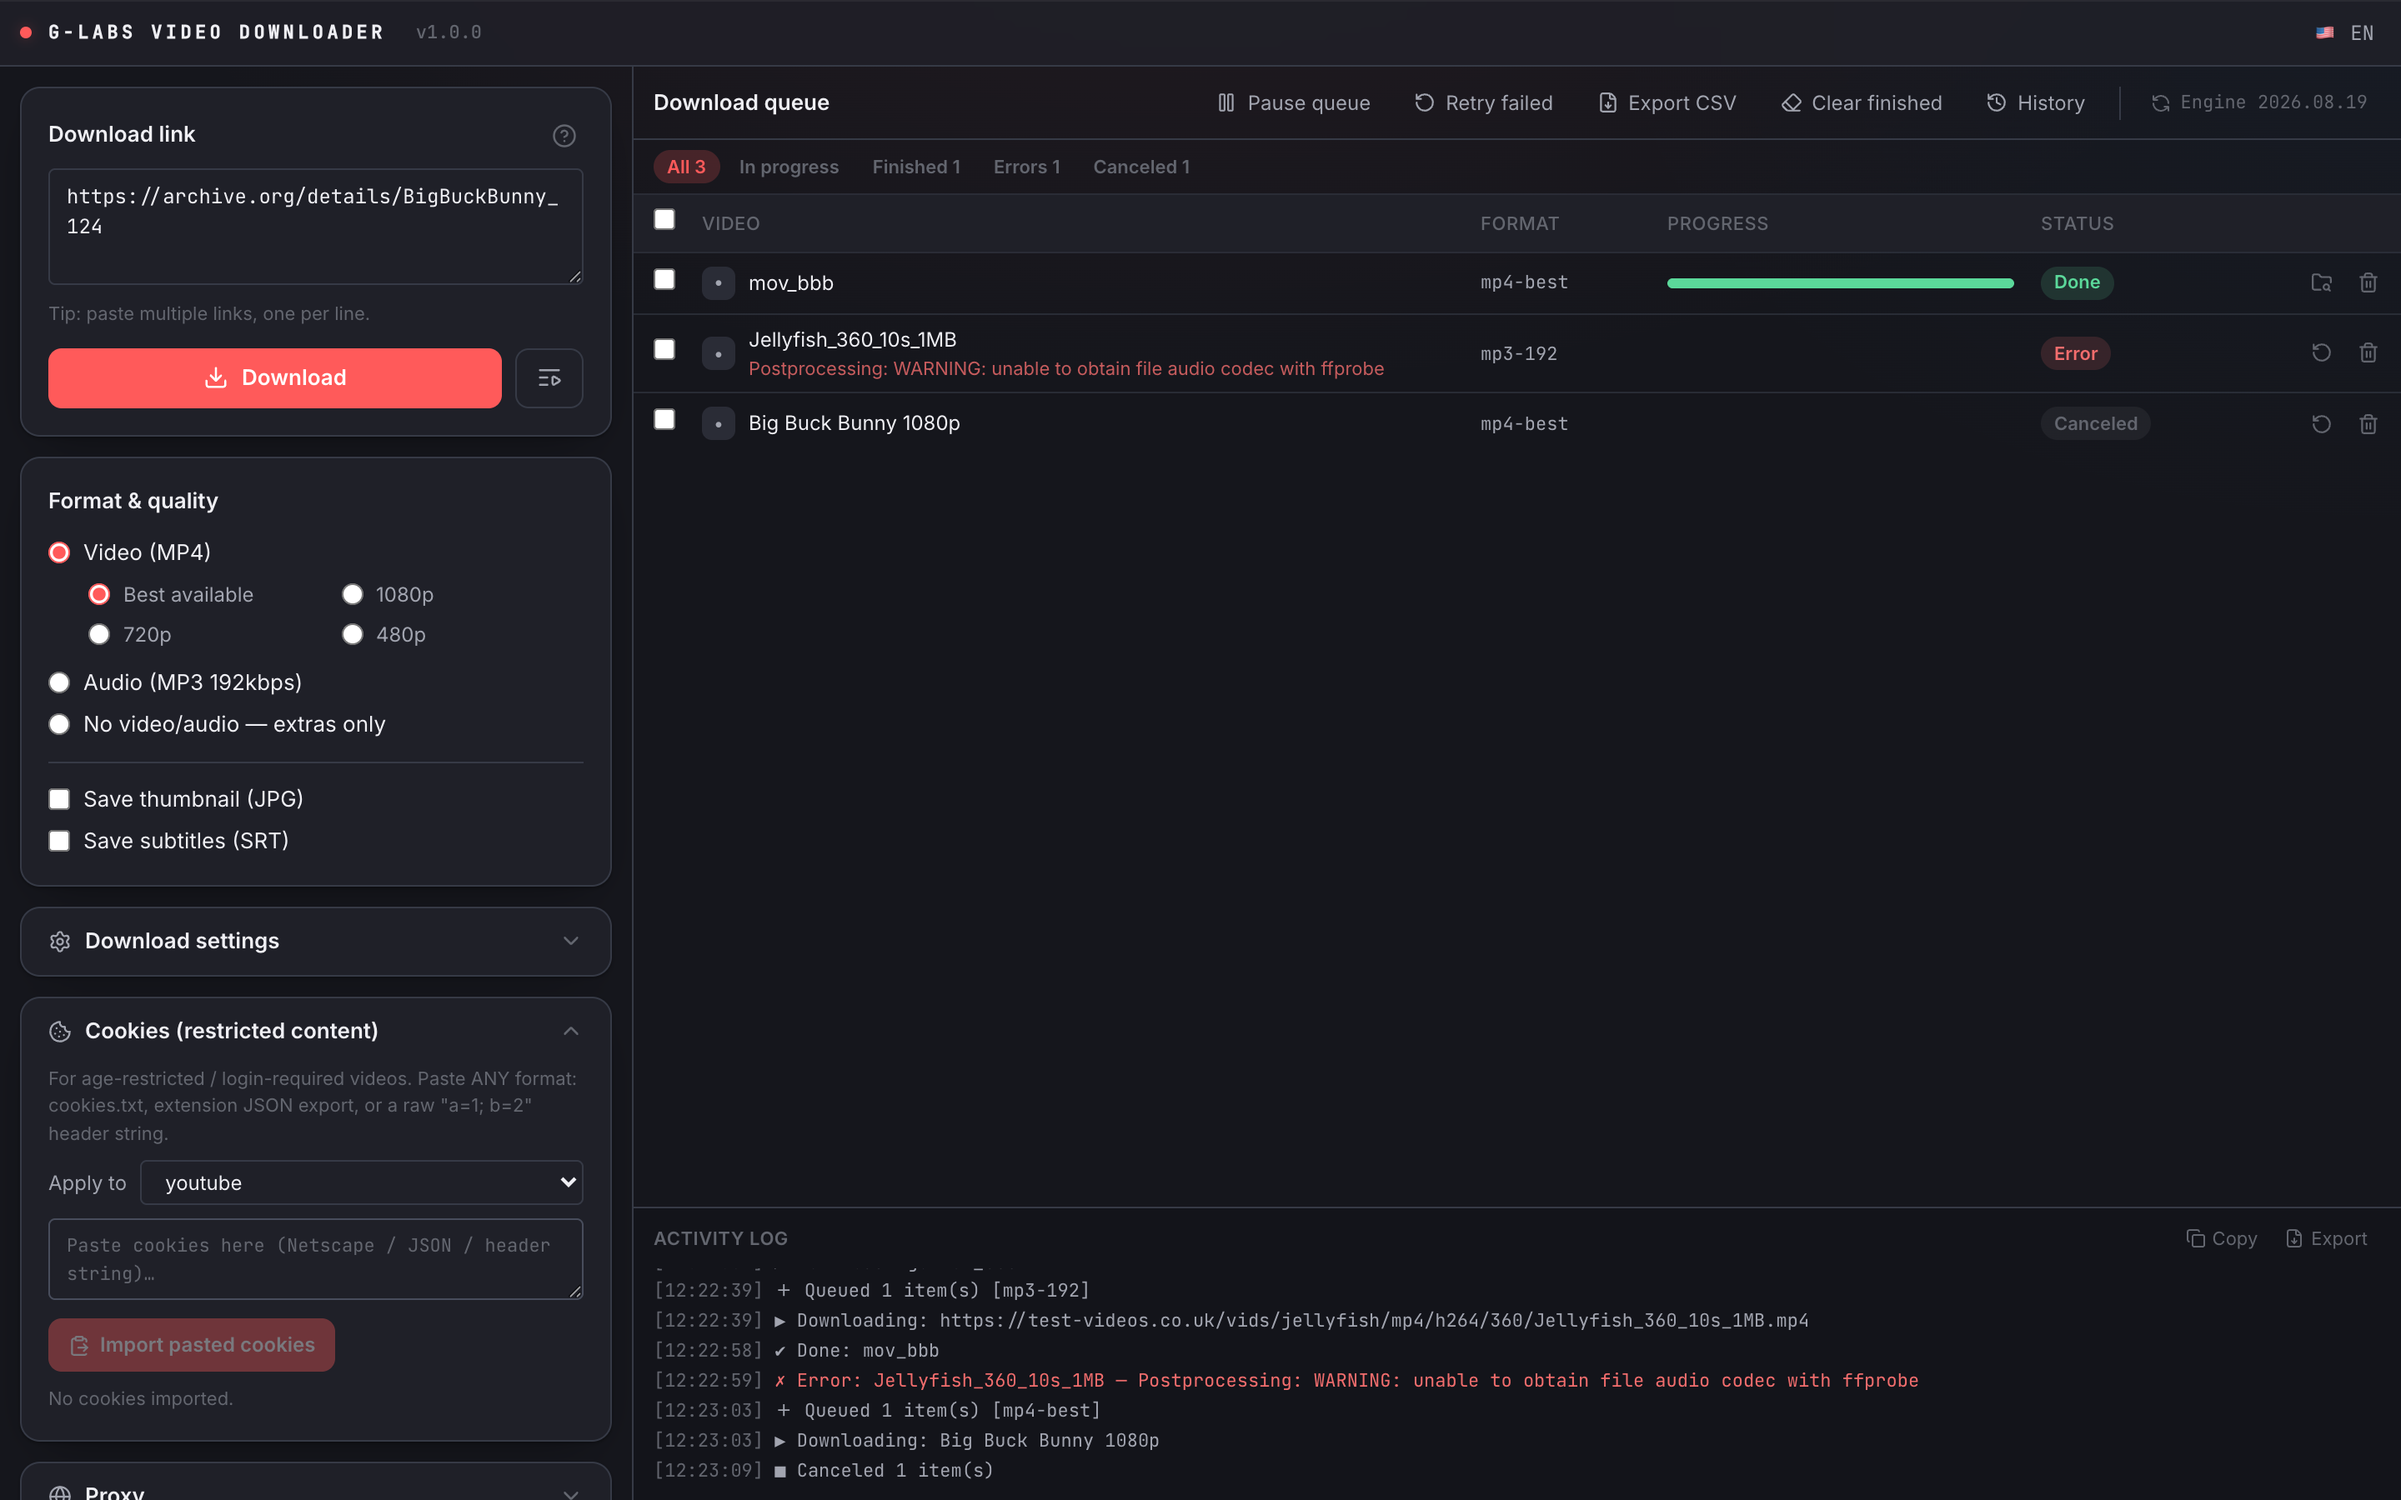
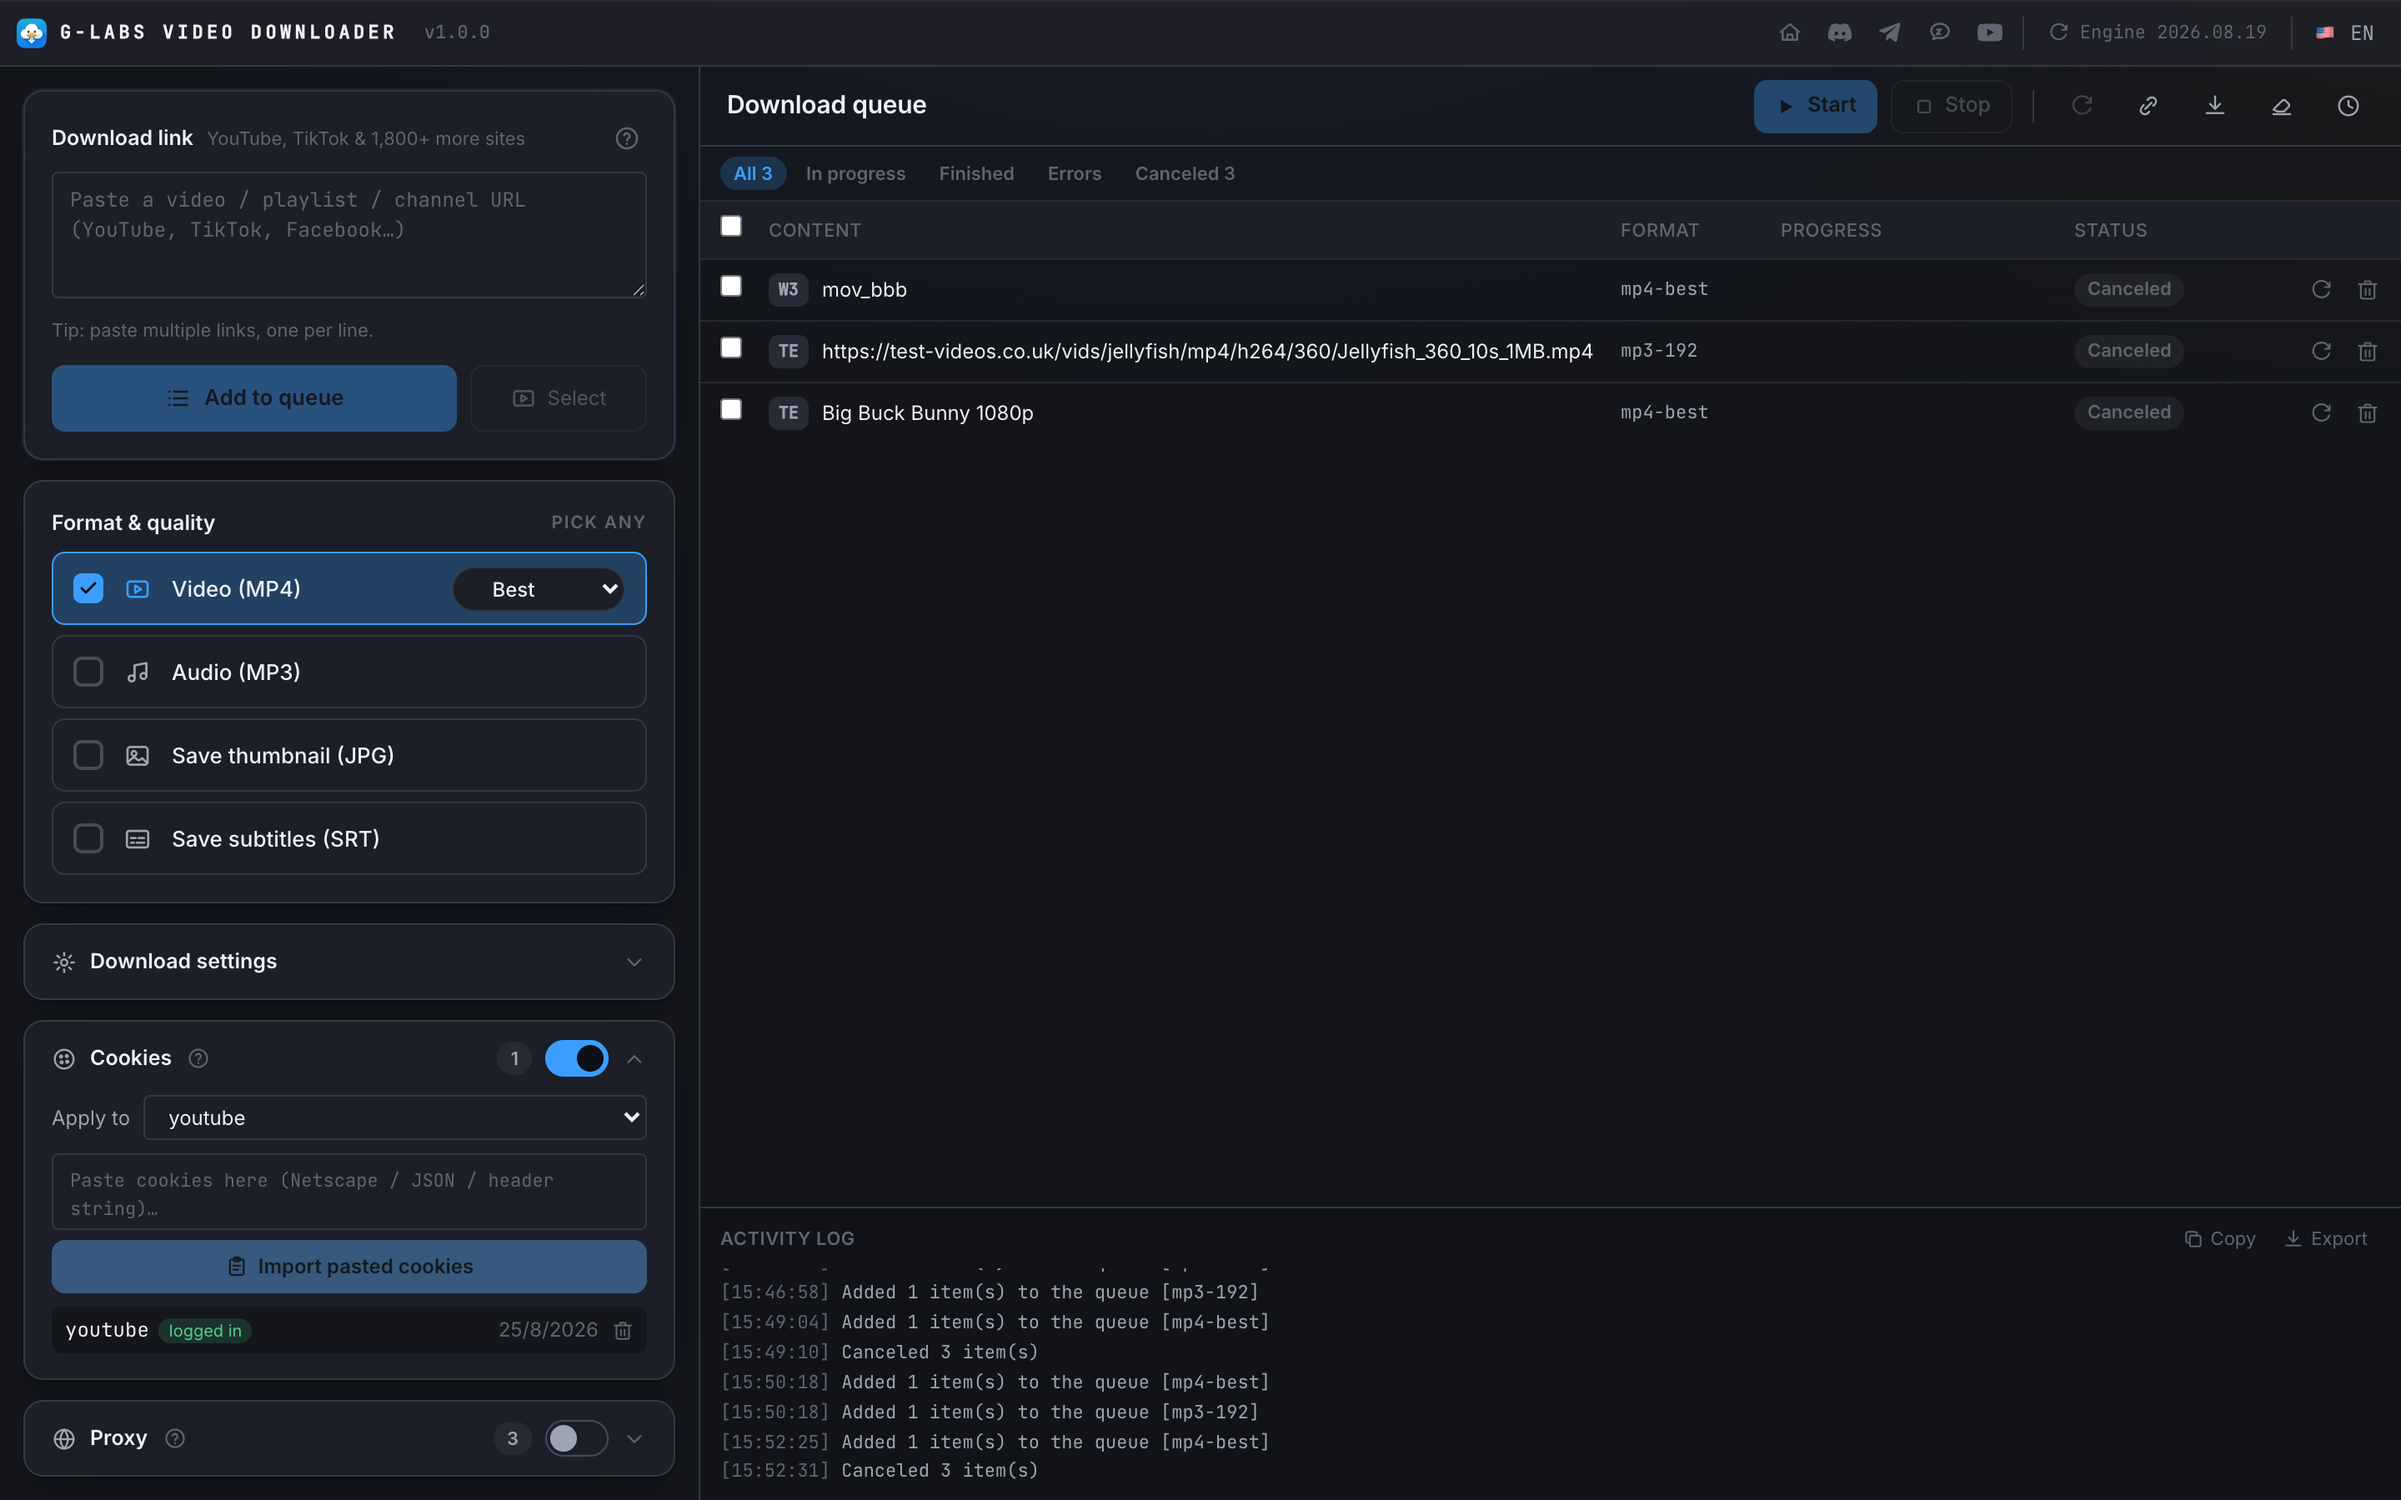
Add files via upload

diff --git a/README.md b/README.md
@@ -2,22 +2,23 @@
 
 **English** | [Tiếng Việt](README.vi.md)
 
-Desktop app for downloading videos from **YouTube, TikTok, Facebook, Instagram, X/Twitter, Twitch, Vimeo, Reddit, SoundCloud, Bilibili and 1,800+ other sites** — with a bundled self-updating multi-platform download engine. Everything ships in the app; nothing else to install.
+Desktop app for downloading videos from **YouTube, TikTok, Facebook, Instagram, X/Twitter, Twitch, Vimeo, Reddit, SoundCloud, Bilibili and 1,800+ other sites** — with a bundled, self-updating multi-platform download engine. Everything ships in the app; nothing else to install.
 
 ![Main window](docs/screenshots/01-main.png)
 
 ## Features
 
 - **Paste anything**: single videos, playlists, whole channels, YouTube Shorts — one link per line for bulk adds; a **?** button opens a detailed guide of every supported platform & link shape
-- **Formats**: MP4 (best / 1080p / 720p / 480p) · MP3 192 kbps · thumbnail JPG · subtitles SRT · **extras-only mode** (thumbnail/subtitles without downloading the video)
+- **Formats, multi-select**: pick any combination in one pass — MP4 (best / 1080p / 720p / 480p, selected as a **height cap**) · MP3 (320 / 256 / 192 / 128 kbps) · thumbnail JPG · subtitles SRT · **extras-only** (grab the thumbnail/subtitles without the video)
+- **Add then download**: links go into a table first — Start / Pause / Stop are separate actions, so you queue everything and download when ready
 - **Parallel queue**: 1–10 concurrent downloads with per-item progress, speed and ETA; **status filters** (in-progress / finished / errors / canceled) plus row selection with bulk "run selected"
-- **Playlist / channel preview**: fetch the item list first, tick exactly what you want (Videos/Shorts tabs for YouTube channels)
-- **Smart dedup**: persistent download history skips videos you already have (per format) — one click to re-download anyway
+- **Playlist / channel preview**: fetch the item list first and tick exactly what you want (Videos/Shorts tabs for YouTube channels); the list streams in live so you can start before it finishes
+- **Smart dedup**: a persistent history skips videos you already have (per format) — one click to re-download anyway
 - **Retry**: per-item and retry-all for failed downloads (plus the engine's own retry with backoff)
-- **Export CSV**: queue + errors, Excel-friendly (UTF-8 BOM); activity log with copy/export buttons
-- **Cookies quick-import**: paste ANY format — Netscape `cookies.txt`, browser-extension JSON export, or a raw `a=1; b=2` header string — per platform or global, for age-restricted / login-required content
-- **Proxy pool**: paste a LIST of proxies (any format — `host:port:user:pass`, `user:pass@host:port`, full `socks5://` URLs, IPv6) — each download rotates through them round-robin; one-click "test all"
-- **Self-updating engine**: the download engine updates itself every 24 h (+ manual button) so YouTube changes don't break you
+- **Export CSV / direct links**: export the queue + errors (Excel-friendly UTF-8 BOM), or resolve direct media URLs without downloading; activity log with copy/export buttons
+- **Cookies, saved per platform**: paste ANY format — Netscape `cookies.txt`, browser-extension JSON export, or a raw `a=1; b=2` header string — for age-restricted / login-required videos and **private playlists**. Each saved cookie shows whether it is actually **logged in**
+- **Proxy pool**: paste proxies in any format (`host:port:user:pass`, `user:pass@host:port`, full `socks5://` URLs, IPv6) and **add them to a saved list**; downloads rotate through it round-robin. **Re-check** tests every proxy, auto-detects its type (HTTP/SOCKS4/SOCKS5) and tags the dead ones — then **remove the expired** ones in one click
+- **Self-updating engine**: the download engine updates itself every 24 h (+ a manual button) so site changes don't break you
 - **App auto-update**: checks GitHub Releases, downloads and installs in-app
 - **6 languages**: English, Tiếng Việt, 简体中文, Español, العربية (RTL), Русский
 
@@ -27,13 +28,23 @@ Desktop app for downloading videos from **YouTube, TikTok, Facebook, Instagram, 
 |---|---|
 | ![Preview](docs/screenshots/02-preview.png) | ![Help](docs/screenshots/03-help.png) |
 
-| Cookie quick-import | Proxy pool (round-robin) |
+| Cookies (per platform, login state) | Proxy pool (saved list, round-robin) |
 |---|---|
 | ![Cookies](docs/screenshots/04-cookies.png) | ![Proxy](docs/screenshots/05-proxy.png) |
 
 | Download history | RTL (العربية) |
 |---|---|
 | ![History](docs/screenshots/06-history.png) | ![RTL](docs/screenshots/07-rtl-arabic.png) |
+
+## Cookies that last (YouTube)
+
+YouTube **rotates its login cookies every few hours**, so a cookie file exported from your everyday browser goes stale quickly — it works right after import, then fails on the next session even though the file is still saved in full. For long-lived cookies:
+
+1. Open an **Incognito / Private window** and sign in to YouTube.
+2. **Export the cookies** (e.g. the Cookie-Exporter extension) right away.
+3. **Close the incognito window** immediately — don't open any other YouTube tab.
+
+The frozen incognito session isn't refreshed by a running browser, so the exported cookies stay valid far longer. A copied `document.cookie` header string won't work at all — the login cookies are HttpOnly and invisible to it.
 
 ## Install
 

diff --git a/README.vi.md b/README.vi.md
@@ -9,15 +9,16 @@
 ## Tính năng
 
 - **Dán gì cũng được**: video lẻ, playlist, cả kênh, YouTube Shorts — dán nhiều link mỗi dòng một link; nút **?** mở hướng dẫn chi tiết mọi nền tảng & kiểu link hỗ trợ
-- **Định dạng**: MP4 (tốt nhất / 1080p / 720p / 480p) · MP3 192 kbps · ảnh thumbnail JPG · phụ đề SRT · **chế độ chỉ-lấy-kèm** (thumbnail/phụ đề mà không tải video)
+- **Chọn nhiều định dạng cùng lúc**: MP4 (tốt nhất / 1080p / 720p / 480p, chọn là **mức trần** độ phân giải) · MP3 (320 / 256 / 192 / 128 kbps) · ảnh thumbnail JPG · phụ đề SRT · **chỉ-lấy-kèm** (thumbnail/phụ đề mà không tải video)
+- **Thêm rồi mới tải**: link vào bảng trước — Bắt đầu / Tạm dừng / Dừng là các nút riêng, thêm hết rồi tải khi sẵn sàng
 - **Hàng đợi song song**: 1–10 luồng, hiển thị %, tốc độ, thời gian còn lại; **lọc theo trạng thái** (đang xử lý / hoàn thành / lỗi / huỷ) + tick chọn hàng và "chạy mục chọn"
-- **Xem trước playlist / kênh**: lấy danh sách trước, tick đúng video muốn tải (kênh YouTube có tab Video/Shorts)
+- **Xem trước playlist / kênh**: lấy danh sách trước, tick đúng video muốn tải (kênh YouTube có tab Video/Shorts); danh sách chảy về theo thời gian thực, **quét chọn nhanh** bằng cách kéo chuột
 - **Chống tải trùng**: lịch sử tải bền vững, tự bỏ qua video đã tải (theo định dạng) — bấm một nút nếu muốn tải lại
 - **Thử lại**: từng video hoặc tất cả video lỗi (engine cũng tự retry với backoff)
-- **Xuất CSV**: hàng đợi + lỗi, mở đẹp trong Excel (UTF-8 BOM); nhật ký hoạt động có nút copy/xuất
-- **Nhập cookie siêu nhanh**: dán định dạng NÀO cũng được — `cookies.txt` Netscape, JSON từ extension trình duyệt, hoặc chuỗi header thô `a=1; b=2` — theo từng nền tảng hoặc dùng chung, để tải nội dung giới hạn tuổi / cần đăng nhập
-- **Proxy pool**: dán DANH SÁCH proxy (định dạng nào cũng được — `host:port:user:pass`, `user:pass@host:port`, URL `socks5://` đầy đủ, IPv6) — mỗi video tải lần lượt xoay vòng; nút "kiểm tra tất cả"
-- **Engine tự cập nhật**: engine tải tự update mỗi 24h (+ nút thủ công) nên YouTube đổi gì cũng không sợ hỏng
+- **Xuất CSV / lấy link**: xuất hàng đợi + lỗi (Excel đọc đẹp, UTF-8 BOM), hoặc lấy link tải trực tiếp mà không cần tải; nhật ký hoạt động có nút copy/xuất
+- **Cookie lưu theo nền tảng**: dán định dạng NÀO cũng được — `cookies.txt` Netscape, JSON từ extension, hoặc chuỗi header thô `a=1; b=2` — cho nội dung giới hạn tuổi / cần đăng nhập và **playlist riêng tư**. Mỗi cookie đã lưu hiện rõ có **đăng nhập** hay không
+- **Proxy pool**: dán proxy định dạng nào cũng được (`host:port:user:pass`, `user:pass@host:port`, URL `socks5://`, IPv6) và **thêm vào danh sách đã lưu**; mỗi video tải xoay vòng qua danh sách. **Kiểm tra lại** test từng proxy, tự nhận diện loại (HTTP/SOCKS4/SOCKS5) và đánh dấu proxy hỏng — rồi **xoá hết proxy hết hạn** trong một cú bấm
+- **Engine tự cập nhật**: engine tải tự update mỗi 24h (+ nút thủ công) nên trang đổi gì cũng không sợ hỏng
 - **App tự cập nhật**: kiểm tra GitHub Releases, tải và cài ngay trong app
 - **6 ngôn ngữ**: English, Tiếng Việt, 简体中文, Español, العربية (RTL), Русский
 
@@ -27,13 +28,23 @@
 |---|---|
 | ![Preview](docs/screenshots/02-preview.png) | ![Help](docs/screenshots/03-help.png) |
 
-| Nhập cookie nhanh | Proxy pool (xoay vòng) |
+| Cookie (theo nền tảng, trạng thái đăng nhập) | Proxy pool (danh sách, xoay vòng) |
 |---|---|
 | ![Cookies](docs/screenshots/04-cookies.png) | ![Proxy](docs/screenshots/05-proxy.png) |
 
 | Lịch sử tải | RTL (العربية) |
 |---|---|
 | ![History](docs/screenshots/06-history.png) | ![RTL](docs/screenshots/07-rtl-arabic.png) |
+
+## Để cookie YouTube dùng được lâu
+
+YouTube **xoay vòng cookie đăng nhập vài giờ một lần**, nên cookie export từ trình duyệt thường sẽ hỏng nhanh — vừa nhập thì tải được, sang phiên sau lại hết hạn dù file vẫn còn nguyên. Để cookie bền:
+
+1. Mở **cửa sổ ẩn danh (Incognito)** và đăng nhập YouTube.
+2. **Export cookie ngay** (vd extension Cookie-Exporter).
+3. **Đóng luôn cửa sổ ẩn danh** — đừng mở tab YouTube nào khác.
+
+Phiên ẩn danh bị "đóng băng", không có trình duyệt nào tiếp tục xoay token, nên cookie export ra giữ giá trị lâu hơn nhiều. Chuỗi header `document.cookie` sao chép tay sẽ **không dùng được** — cookie đăng nhập là HttpOnly, JS không đọc thấy.
 
 ## Cài đặt
 
